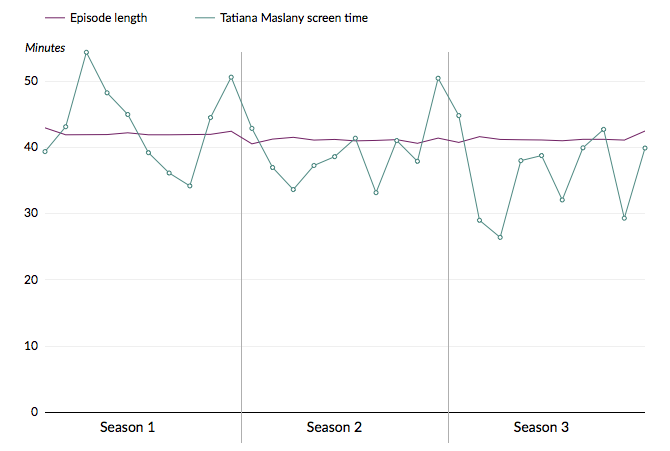
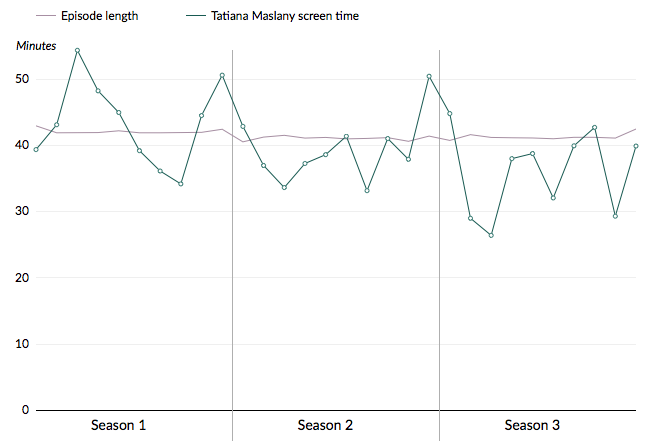
tweaks

diff --git a/index.html b/index.html
@@ -72,7 +72,7 @@
     <div class="container">
         <div class="col-md-8 col-md-offset-2 intro">
             <p>Orphan Black is a weird, ridiculous, and ridiculously amazing BBC America & Space show about a group of clones struggling to determine their origins and to survive. It's a show about identity, family, ownership, science, individuality, but most of all it's a showcase for lead actress Tatiana Maslany. Playing most of the show's main characters, often in the same scene, she carries the series - and then some. </p>
-            <p>After the first season aired, some reviews claimed she must be in nearly all of the show. I decided to test that claim. But it's not enough to know what percent of the time any Tatiana Maslany character is on screen - that number wouldn't account for her multiple-clone scenes. Instead, since there are often two, or three, or even four Tatiana Maslanys in a scene, I counted each of her character's screen time individually and added it up.</p>
+            <p>After the first season aired, some reviews claimed she must be in nearly all of the show. I decided to test that claim. But it's not enough to know what percent of the time any Tatiana Maslany character is on screen - that number wouldn't account for her multiple-clone scenes. Instead, since there are often two, or three, or even four Maslanys in a scene, I counted each of her character's screen time individually and added it up.</p>
 
             <p>As of April, 2016:</p>
             <div id="mainnumbers">There have been
@@ -240,25 +240,25 @@
 
                     <div class="characterblock">
                         <div class="row">
-                            <div class="col-lg-6 col-md-12">
+                            <div class="col-md-6 col-sm-12">
                                 <div class="blocktitle">
                                     <div class="name">Katja Obinger</div>
                                 </div>
-                                <div class="nospace col-md-6">
+                                <div class="nospace col-sm-6">
                                     <img src="img/katjabw.jpg" class="headshot" alt="Greyscale image of Katja Obinger">
                                 </div>
-                                <div class="col-md-6">
+                                <div class="col-sm-6">
                                     <div id="tableKatja"></div>
                                 </div>
                             </div>
-                            <div class="col-lg-6 col-md-12">
+                            <div class="col-md-6 col-sm-12">
                                 <div class="blocktitle">
                                     <div class="name">Tony Sawicki</div>
                                 </div>
-                                <div class="nospace col-md-6">
+                                <div class="nospace col-sm-6">
                                     <img src="img/tony.jpg" class="headshot" alt="Image of Tony Sawicki">
                                 </div>
-                                <div class="col-md-6">
+                                <div class="col-sm-6">
                                     <div id="tableTony"></div>
                                 </div>
                             </div>
@@ -268,30 +268,28 @@
                     <hr>
 
                     <div class="characterblock">
-                        <div class="blocktitle">
-                            <div class="name">Dead before series</div>
-                        </div>
+                            <div class="blocktitle name">Dead before series</div>
                         <div class="row">
-                            <div class="col-lg-3 col-md-6 col-sm-12">
-                                <div class="blocktitle">Jennifer Fitzsimmons</div>
+                            <div class="col-md-3 col-sm-6">
+                                <div class="blocktitle bottom">Jennifer Fitzsimmons</div>
                                 <div class="blocktext">USA</div>
                                 <img src="img/jenniferbw.jpg" class="headshot" alt="Greyscale image of Jennifer Fitzsimmons">
                             </div>
 
-                            <div class="col-lg-3 col-md-6 col-sm-12">
-                                <div class="blocktitle">Aryanna Giordano</div>
+                            <div class="col-md-3 col-sm-6">
+                                <div class="blocktitle bottom">Aryanna Giordano</div>
                                 <div class="blocktext">Italy</div>
                                 <img src="img/aryannabw.jpg" class="headshot" alt="Greyscale image of Aryanna Giordano">
                             </div>
 
-                            <div class="col-lg-3 col-md-6 col-sm-12">
-                                <div class="blocktitle">Janika Zingler</div>
+                            <div class="col-md-3 col-sm-6">
+                                <div class="blocktitle bottom">Janika Zingler</div>
                                 <div class="blocktext">Austria</div>
                                 <img src="img/janikabw.jpg" class="headshot" alt="Greyscale image of Janika Zingler">
                             </div>
 
-                            <div class="col-lg-3 col-md-6 col-sm-12">
-                                <div class="blocktitle">Danielle Fournier</div>
+                            <div class="col-md-3 col-sm-6">
+                                <div class="blocktitle bottom">Danielle Fournier</div>
                                 <div class="blocktext">France</div>
                                 <img src="img/daniellebw.jpg" class="headshot" alt="Greyscale image of Danielle Fournier">
                             </div>

diff --git a/js/main.js b/js/main.js
@@ -11,7 +11,7 @@ var SEASONS = [1, 2, 3];
 var CHARACTERS = ["Sarah", "Alison", "Cosima", "Helena", "Rachel", "Krystal", "Beth", "Katja", "Tony"];
 var CHARACTERS_GANTT = ["Sarah", "Alison", "Cosima", "Helena", "Rachel", "Krystal", "Beth"];
 var LINELABELS = ["Episode length", "Tatiana Maslany screen time"];
-var COLORS = ["#712164", "#4f8a83"];
+var COLORS = ["#a78fa3", "#185a52"];
 
 function formatXAxis(d) {
     var s = formatNum(d);
@@ -732,7 +732,7 @@ function ganttcharacters() {
     var chart_aspect_height = 0.75;
     var margin = {
         top: 5,
-        right: 20,
+        right: 25,
         bottom: 40,
         left: 60
     };

diff --git a/css/main.css b/css/main.css
@@ -119,7 +119,7 @@ tr {
 
 .gantt {
     height: 300px;
-    margin-left: 20px;
+    margin-left: 10px;
     margin-right: 10px;
 }
 
@@ -242,6 +242,12 @@ text.legend {
 
 .moblegendbar {
     fill: #1B3536;
+}
+
+@media(max-width:1188px) {
+    .blocktitle.bottom {
+        max-width: 60%;
+    }
 }
 
 @media(max-width:767px) {
